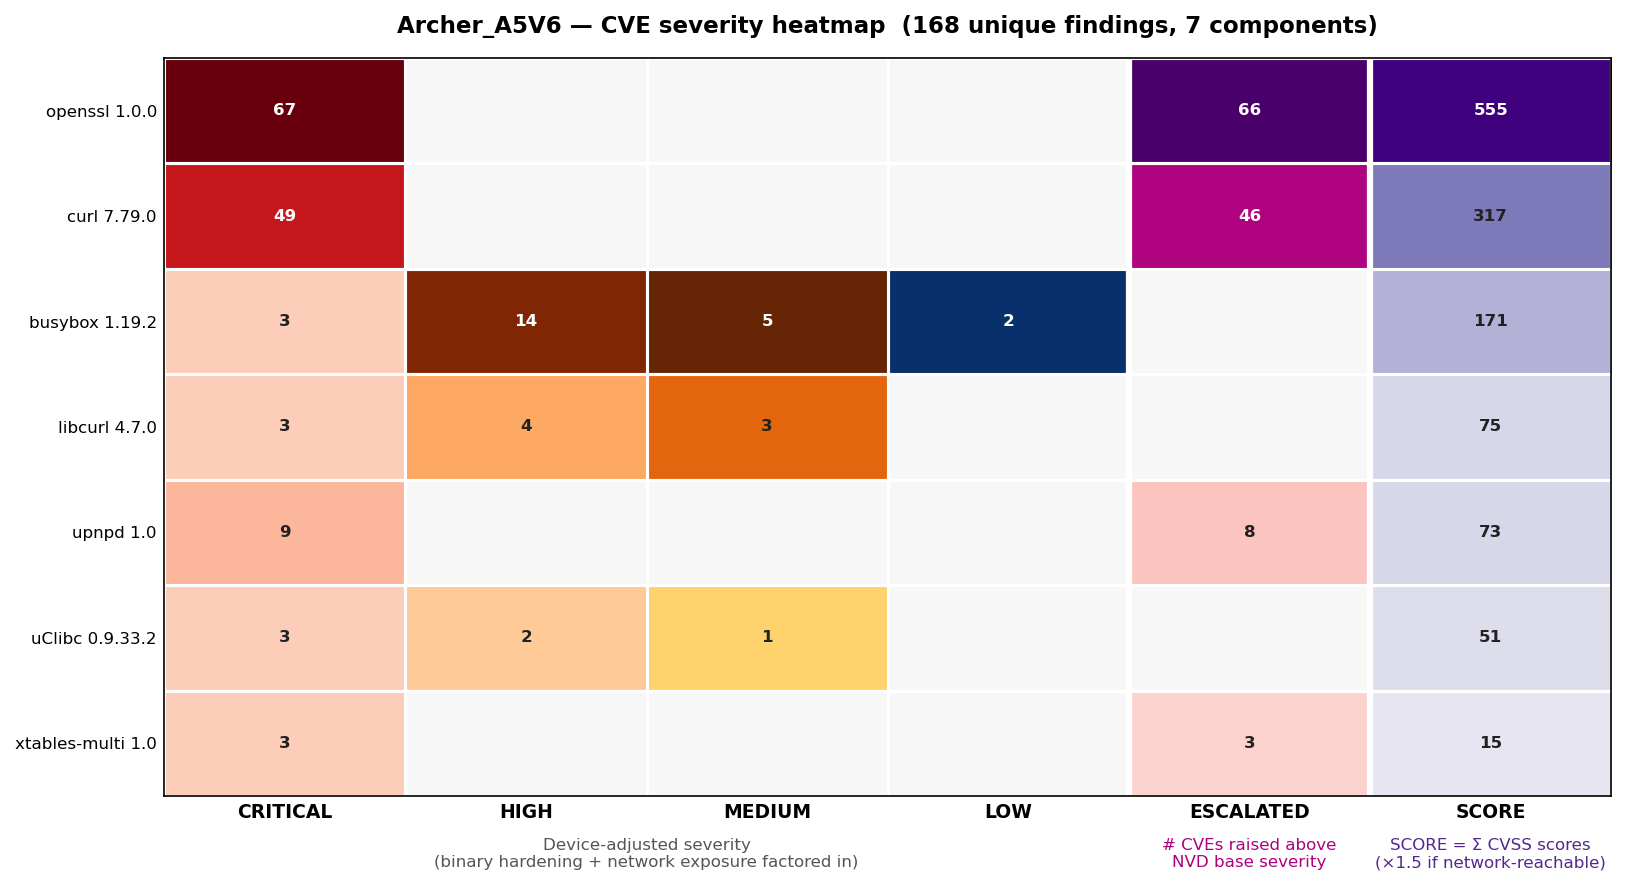
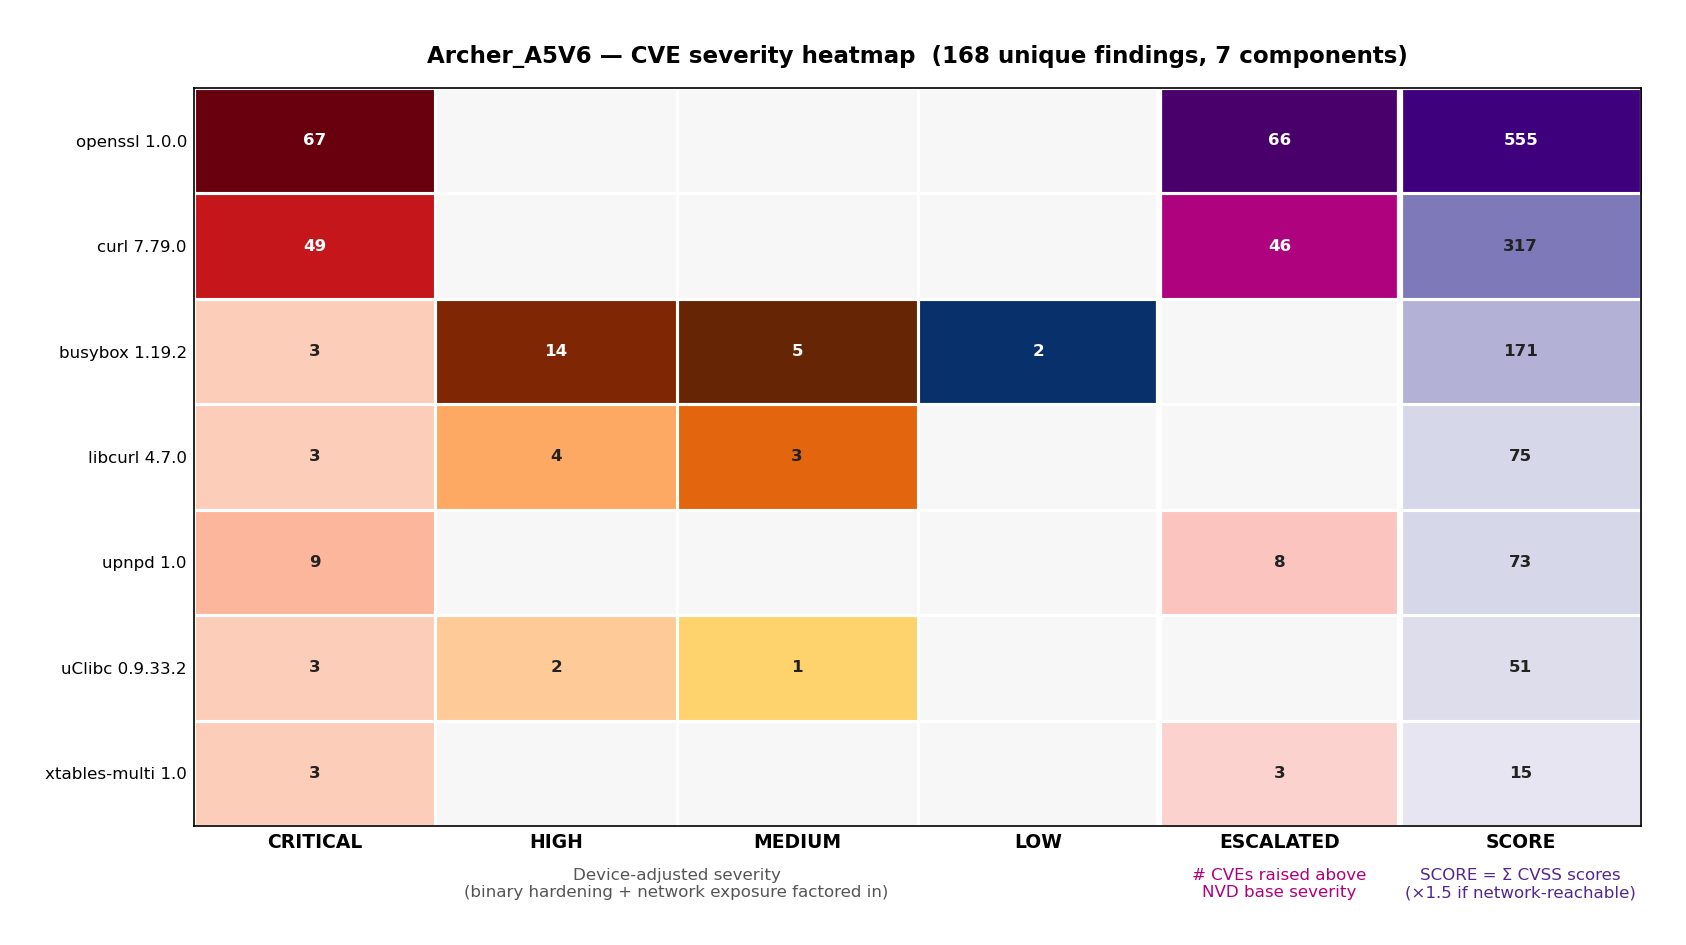
Add pad_inches=0.3 to ensure bottom annotations are never clipped
bbox_inches="tight" captures annotations outside axes but can squeeze
them against the figure edge; explicit padding guarantees clearance.

diff --git a/firmware_analysis/reporting/heatmap.py b/firmware_analysis/reporting/heatmap.py
@@ -232,7 +232,7 @@ def _draw(
     )
 
     plt.tight_layout()
-    fig.savefig(out_path, dpi=150, bbox_inches="tight")
+    fig.savefig(out_path, dpi=150, bbox_inches="tight", pad_inches=0.3)
     plt.close(fig)
 
 
